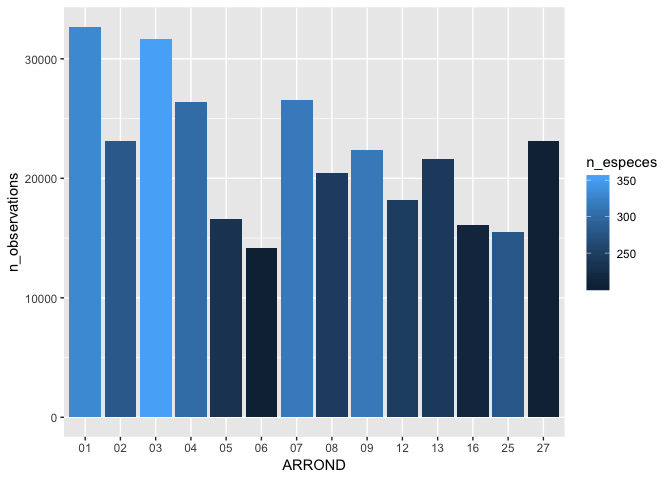
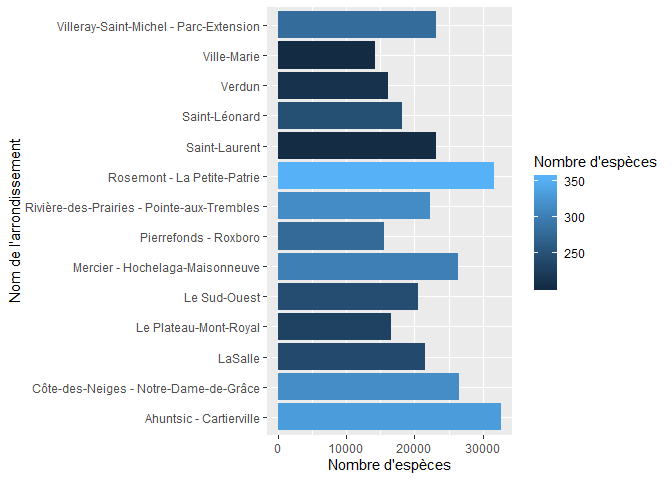
Mise à jour avec knit

diff --git a/arbres_manip.html b/arbres_manip.html
@@ -375,11 +375,12 @@ summary {
 <pre class="r"><code>#Loading packages
 library(tidyverse)
 # Import data set
-arbres_dataframe  = read_csv(&quot;arbres_publics.csv&quot;)</code></pre>
+arbres_dataframe  = read_csv(&quot;arbres_publics.csv&quot;)
+arbres_dataframe</code></pre>
 </div>
 <div id="specification-du-bon-type-de-variable-pour-chaque-colonne" class="section level2">
 <h2>Spécification du bon type de variable pour chaque colonne</h2>
-<pre class="r"><code># Ajout d'un 0 devant les numéros d'arrond. inférieur à 10.(convertie automatiquement en chr)
+<pre class="r"><code># Ajout d&#39;un 0 devant les numéros d&#39;arrond. inférieur à 10.(convertie automatiquement en chr)
 arbres_dataframe$ARROND[which(arbres_dataframe$ARROND&lt;10)] = paste(&quot;0&quot;, arbres_dataframe$ARROND[which(arbres_dataframe$ARROND&lt;10)], sep =&quot;&quot;)
 # Type de variable
 arbres_dataframe$EMP_NO = arbres_dataframe$EMP_NO %&gt;%  as.character()
@@ -389,13 +390,13 @@ arbres_dataframe$No_civique = arbres_dataframe$No_civique %&gt;% as.integer()</c
 <h1>Exploration du data set</h1>
 <div id="combien-despeces-differentes-darbres-sont-repertories" class="section level2">
 <h2>Combien d’espèces différentes d’arbres sont répertoriés ?</h2>
-<pre class="r"><code># Nombre d'espèces répertoriées avec le nom latin
+<pre class="r"><code># Nombre d&#39;espèces répertoriées avec le nom latin
   n_distinct(arbres_dataframe$Essence_latin, na.rm = TRUE)</code></pre>
 <pre><code>## [1] 615</code></pre>
-<pre class="r"><code># Nombre d'espèces répertoriées avec le nom Français
+<pre class="r"><code># Nombre d&#39;espèces répertoriées avec le nom Français
   n_distinct(arbres_dataframe$Essence_fr, na.rm = TRUE)</code></pre>
 <pre><code>## [1] 610</code></pre>
-<pre class="r"><code># Nombre d'espèces répertoriées avec le nom Anglais
+<pre class="r"><code># Nombre d&#39;espèces répertoriées avec le nom Anglais
   n_distinct(arbres_dataframe$ESSENCE_ANG, na.rm = TRUE)</code></pre>
 <pre><code>## [1] 609</code></pre>
 <p>Le nombre d’espèces changent avec la langue utilisée pour les identifier… Nous allons donc utiliser le nom latin pour la suite.</p>
@@ -406,7 +407,7 @@ arbres_dataframe$No_civique = arbres_dataframe$No_civique %&gt;% as.integer()</c
 <pre class="r"><code>arbres_dataframe %&gt;%
 # Regroupement par arrondissement
   group_by(ARROND_NOM) %&gt;%
-# Nombre d'observations
+# Nombre d&#39;observations
   summarise(n_observations = n()) %&gt;%
 # Ordre dédroissant
   arrange(desc(n_observations)) </code></pre>
@@ -435,7 +436,7 @@ arbres_dataframe$No_civique = arbres_dataframe$No_civique %&gt;% as.integer()</c
 <h1>Nettoyage des données</h1>
 <p>Il y a très peu d’arbres répertoriés pour certain arrondissement (&lt; 18 pour Anjou et Montréal-Est). J’ai choisi de les retirer de l’analyse.</p>
 <pre class="r"><code>arbres_dataframe %&gt;%
-# Sélection des lignes où le nom d'arrondissement n'est pas Anjou ou Montréal-Est
+# Sélection des lignes où le nom d&#39;arrondissement n&#39;est pas Anjou ou Montréal-Est
   filter(ARROND_NOM != &quot;Anjou&quot; &amp; ARROND_NOM != &quot;Montréal-Est&quot;) %&gt;% 
   group_by(ARROND_NOM) %&gt;%
   summarise(n_observations = n()) %&gt;% 
@@ -470,18 +471,38 @@ arbres_dataframe$No_civique = arbres_dataframe$No_civique %&gt;% as.integer()</c
 </div>
 <div id="graphique-montrant-la-diversite-darbres-par-arrondissement" class="section level2">
 <h2>Graphique montrant la diversité d’arbres par arrondissement</h2>
-<pre class="r"><code># J'ai décidé d'utiliser le numéro d'arrondissement ici pour alléger le graphique (la variable ARROND au lieu de ARROND_NOM)
+<pre class="r"><code># J&#39;ai décidé d&#39;utiliser le numéro d&#39;arrondissement ici pour alléger le graphique (la variable ARROND au lieu de ARROND_NOM)
 arbres_dataframe %&gt;% 
-  group_by(ARROND) %&gt;%
+  group_by(ARROND_NOM) %&gt;%
   summarise(n_observations = n(), n_especes = n_distinct(Essence_latin, na.rm = TRUE)) %&gt;%
-# J'ai ainsi mis le filtre sur le nombre d'observations pour exclures les deux même arrondissements, ça allège le code en même temps.
+# J&#39;ai ainsiangle = 90 mis le filtre sur le nombre d&#39;observations pour exclures les deux même arrondissements, ça allège le code en même temps.
   filter(n_observations &gt; 18) %&gt;%
-  ggplot(aes(x = ARROND, y = n_observations, fill = n_especes)) +
-  geom_bar(stat = &quot;identity&quot;)</code></pre>
[1 lines of base64/hex data omitted]
+  ggplot(aes(x = ARROND_NOM, y = n_observations, fill = n_especes)) +
+  geom_bar(stat = &quot;identity&quot;) +
+  coord_flip() +
+  labs(x = &quot;Nom de l&#39;arrondissement&quot;, y = &quot;Nombre d&#39;espèces&quot;, fill = &quot;Nombre d&#39;espèces&quot;)</code></pre>
[1 lines of base64/hex data omitted]
+<pre class="r"><code>  theme(axis.text.x=element_text())</code></pre>
+<pre><code>## List of 1
+##  $ axis.text.x:List of 11
+##   ..$ family       : NULL
+##   ..$ face         : NULL
+##   ..$ colour       : NULL
+##   ..$ size         : NULL
+##   ..$ hjust        : NULL
+##   ..$ vjust        : NULL
+##   ..$ angle        : NULL
+##   ..$ lineheight   : NULL
+##   ..$ margin       : NULL
+##   ..$ debug        : NULL
+##   ..$ inherit.blank: logi FALSE
+##   ..- attr(*, &quot;class&quot;)= chr [1:2] &quot;element_text&quot; &quot;element&quot;
+##  - attr(*, &quot;class&quot;)= chr [1:2] &quot;theme&quot; &quot;gg&quot;
+##  - attr(*, &quot;complete&quot;)= logi FALSE
+##  - attr(*, &quot;validate&quot;)= logi TRUE</code></pre>
 <div id="correspondance-entre-les-numeros-darrondissement-et-leur-nom." class="section level3">
 <h3>Correspondance entre les numéros d’arrondissement et leur nom.</h3>
-<pre class="r"><code># Il faudrait utiliser l'information ci dessou et le mettre en légende dans le graphique.
+<pre class="r"><code># Il faudrait utiliser l&#39;information ci dessou et le mettre en légende dans le graphique.
 arbres_dataframe %&gt;%
   group_by(ARROND, ARROND_NOM) %&gt;%
   filter(ARROND_NOM != &quot;Anjou&quot; &amp; ARROND_NOM != &quot;Montréal-Est&quot;) %&gt;% 

diff --git a/arbres_manip.md b/arbres_manip.md
@@ -19,6 +19,7 @@ output:
 library(tidyverse)
 # Import data set
 arbres_dataframe  = read_csv("arbres_publics.csv")
+arbres_dataframe
 ```
 
 ## Spécification du bon type de variable pour chaque colonne
@@ -152,15 +153,41 @@ arbres_dataframe %>%
 ```r
 # J'ai décidé d'utiliser le numéro d'arrondissement ici pour alléger le graphique (la variable ARROND au lieu de ARROND_NOM)
 arbres_dataframe %>% 
-  group_by(ARROND) %>%
+  group_by(ARROND_NOM) %>%
   summarise(n_observations = n(), n_especes = n_distinct(Essence_latin, na.rm = TRUE)) %>%
-# J'ai ainsi mis le filtre sur le nombre d'observations pour exclures les deux même arrondissements, ça allège le code en même temps.
+# J'ai ainsiangle = 90 mis le filtre sur le nombre d'observations pour exclures les deux même arrondissements, ça allège le code en même temps.
   filter(n_observations > 18) %>%
-  ggplot(aes(x = ARROND, y = n_observations, fill = n_especes)) +
-  geom_bar(stat = "identity")
+  ggplot(aes(x = ARROND_NOM, y = n_observations, fill = n_especes)) +
+  geom_bar(stat = "identity") +
+  coord_flip() +
+  labs(x = "Nom de l'arrondissement", y = "Nombre d'espèces", fill = "Nombre d'espèces")
 ```
 
 ![](arbres_manip_files/figure-html/Plot_nb_arbre_nb_especes-1.png)<!-- -->
+
+```r
+  theme(axis.text.x=element_text())
+```
+
+```
+## List of 1
+##  $ axis.text.x:List of 11
+##   ..$ family       : NULL
+##   ..$ face         : NULL
+##   ..$ colour       : NULL
+##   ..$ size         : NULL
+##   ..$ hjust        : NULL
+##   ..$ vjust        : NULL
+##   ..$ angle        : NULL
+##   ..$ lineheight   : NULL
+##   ..$ margin       : NULL
+##   ..$ debug        : NULL
+##   ..$ inherit.blank: logi FALSE
+##   ..- attr(*, "class")= chr [1:2] "element_text" "element"
+##  - attr(*, "class")= chr [1:2] "theme" "gg"
+##  - attr(*, "complete")= logi FALSE
+##  - attr(*, "validate")= logi TRUE
+```
 
 ### Correspondance entre les numéros d'arrondissement et leur nom.
 
